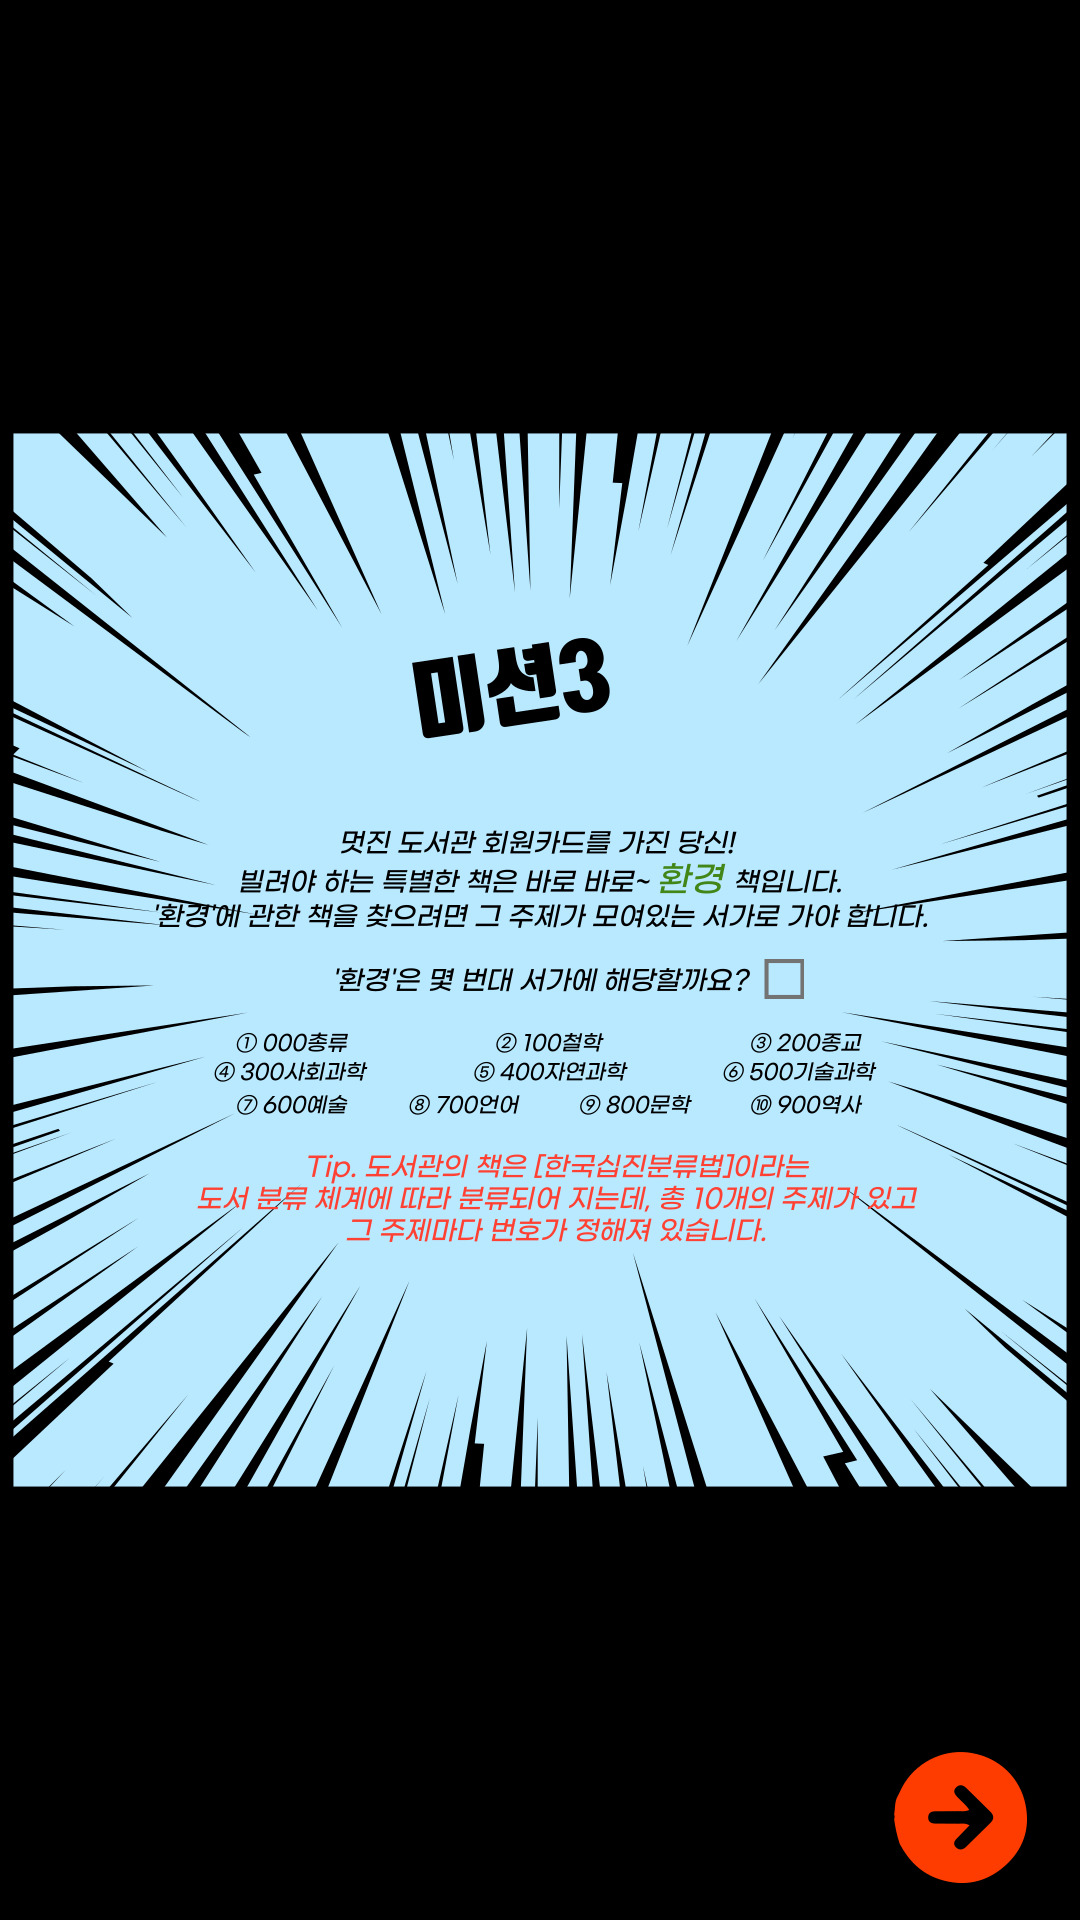
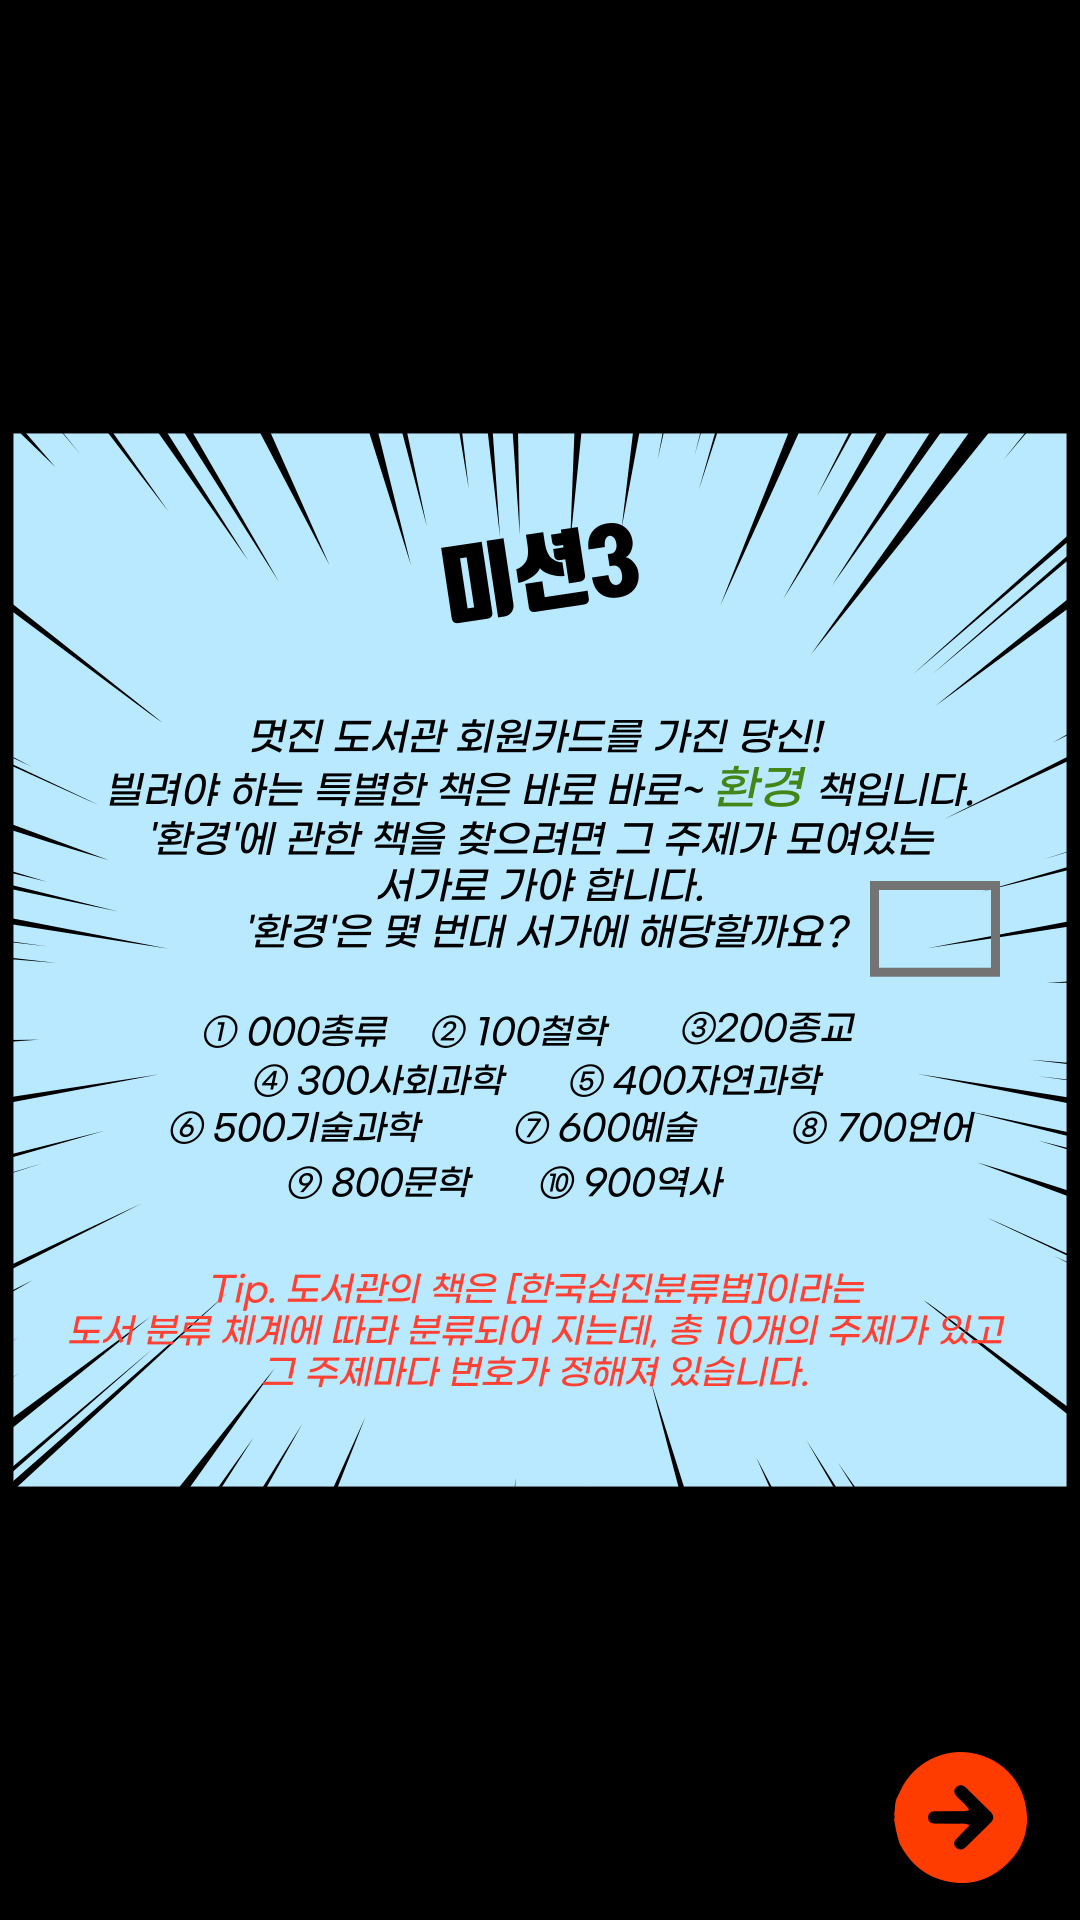
Add files via upload

diff --git a/escapelib/quiz01.html b/escapelib/quiz01.html
@@ -12,13 +12,13 @@
 <body>
     <div style="position: relative; text-align: center;">
         <img src="img/mission/003.jpg" usemap="#image-map" style="width: 100%;" />
-        <div style="position: absolute; top: 0%; left: 0%; width: 100%; height: 100%;">
-            <input type="text" id="input01" style="position: absolute; top: 54.3%; left: 37%; width: 26%; height: 2.1%;" />
-            <input type="text" id="input02" style="position: absolute; top: 58.3%; left: 37%; width: 26%; height: 2.1%;" />
-            <input type="text" id="input03" style="position: absolute; top: 62.3%; left: 37%; width: 26%; height: 2.1%;" />
+        <div style="position: absolute; top: 0%; left: 0%; width: 100%; height: 90%;">
+            <input type="text" id="input01" style="position: absolute; top: 57.9%; left: 26.5%; width: 47%; height: 4.6%;" />
+            <input type="text" id="input02" style="position: absolute; top: 65.7%; left: 26.5%; width: 47%; height: 4.6%;" />
+            <input type="text" id="input03" style="position: absolute; top: 73.9%; left: 26.5%; width: 47%; height: 4.6%;" />
         </div>
         <map name="image-map">
-            <area target="_self" alt="" title="" href='javascript:void(0);' onclick="checkQuiz();" coords="588,1492,913,1648" shape="rect">
+            <area target="_self" title="" href="javascript:void(0);" onclick="checkQuiz();" coords="894,1750,1027,1883" shape="rect">
         </map>
     </div>
   <script>
@@ -54,8 +54,9 @@
             '송도3동작은도서관': true,
             '송도5동작은도서관': true,
         };
-        
+
         let isExistLib01 = libMap[$('#input01').val()];
+
         if (!isExistLib01) {
             alert('첫번째 칸에 도서관 이름을 정확하게 입력해주세요.');
             return false;
@@ -73,8 +74,8 @@
 
         if (isExistLib01 && isExistLib02 && isExistLib03) {
             $.cookie('quiz01', true);
-            alet('축하합니다. 다음 단계로 도전하세요.');
-            location.href = 'introduce03.html';
+            alert('축하합니다. 다음 단계로 도전하세요.');
+            location.href = 'escapelib.html';
         }
     }
 </script>

diff --git a/escapelib/qr.html b/escapelib/qr.html
@@ -116,7 +116,7 @@
         const qrPositionMap = {
             '784407522147': 'qr01',
             '784860523599': 'qr02',
-            '1167860906599': 'qr03'
+            '1167860906599': 'qr03',
             '1167408906147': 'qr04',
             '15504071289147': 'qr05',
             '15508601288599': 'qr06'
@@ -161,6 +161,6 @@
         }
 
         alert('알맞는 qr을 찾았습니다.');
-        location.href = missionURLMap[confirmQrPosition];        
+        location.href = missionURLMap[checkMatch];
     }
 </script>
